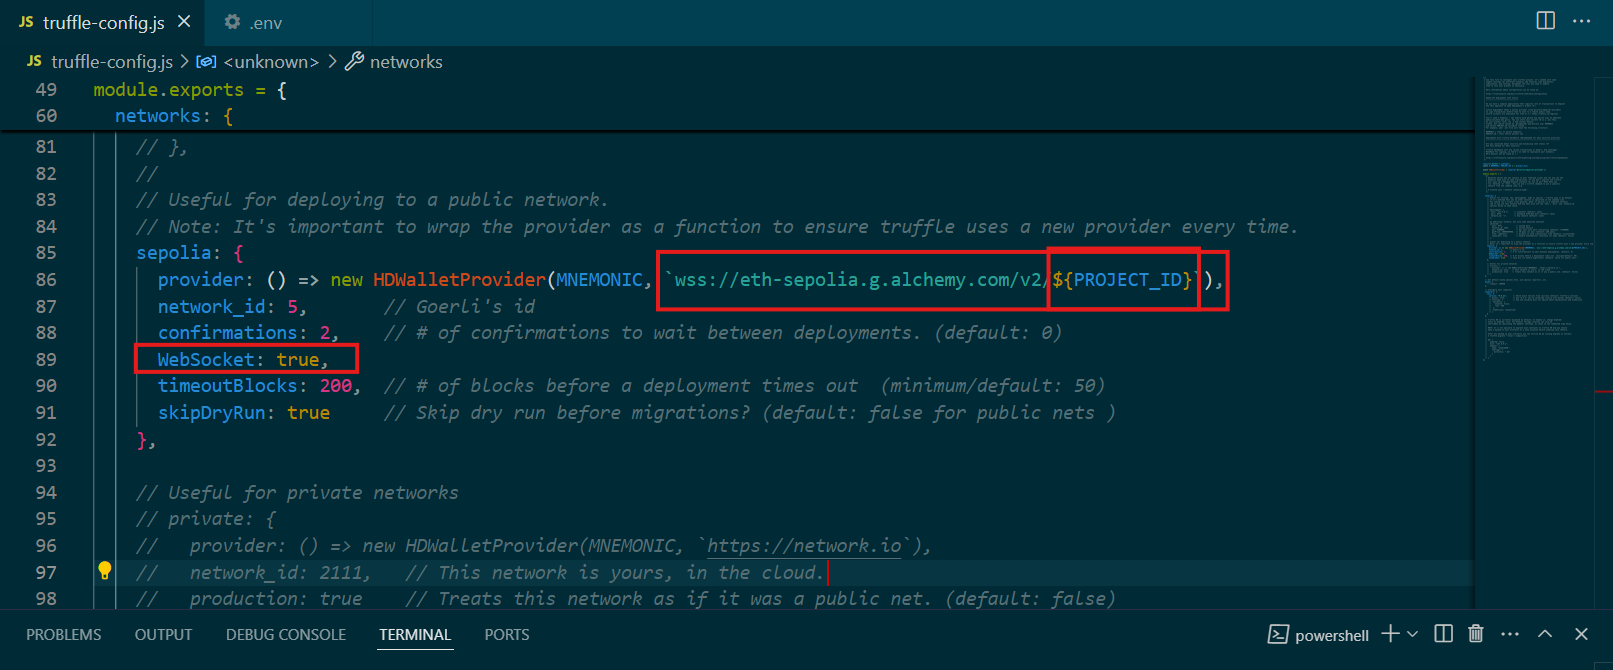
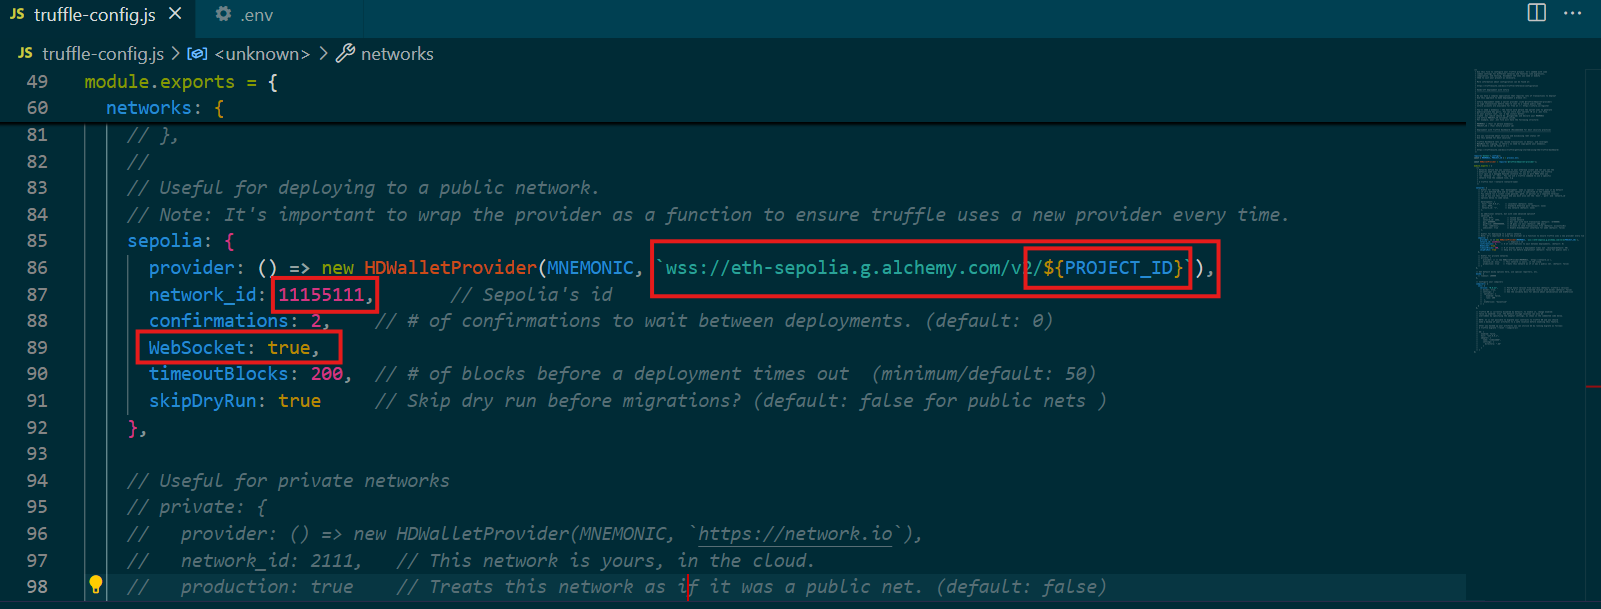
read

diff --git a/README.md b/README.md
@@ -203,8 +203,8 @@ npm install dotenv
 
 
 ```dotenv
-PROJECT_ID=yourAlchemyApiKey
-MNEMONIC=yourWalletMnemonicOrPrivateKey
+PROJECT_ID= yourAlchemyApiKey
+MNEMONIC= yourWalletMnemonicOrPrivateKey
 ```
 
 <p align="center">
@@ -228,6 +228,7 @@ MNEMONIC=yourWalletMnemonicOrPrivateKey
 3. Refactor your API on truffle-config.js
     - Paste the API link.
     - Change the API part in the link into ${PROJECT_ID} to retrieve it back from .env file.
+    - Change network_id: 5 to 11155111 (representing Sepolia network address).
     - Add WebSocket: true line
 
 <p align="center">
@@ -241,7 +242,8 @@ MNEMONIC=yourWalletMnemonicOrPrivateKey
     - Make sure to store your secret recovery phrase securely.
 
 2. Find MNEMONIC in Metamask.
-    - complete all the verification required and copy the Secret Recovery Phrase (MNEMONIC)
+    - complete all the step below and verification required.
+    - then copy the Secret Recovery Phrase (MNEMONIC)
 
 <p align="center">
   <img alt="Network Settings" src="/assets/met-collage.png">
